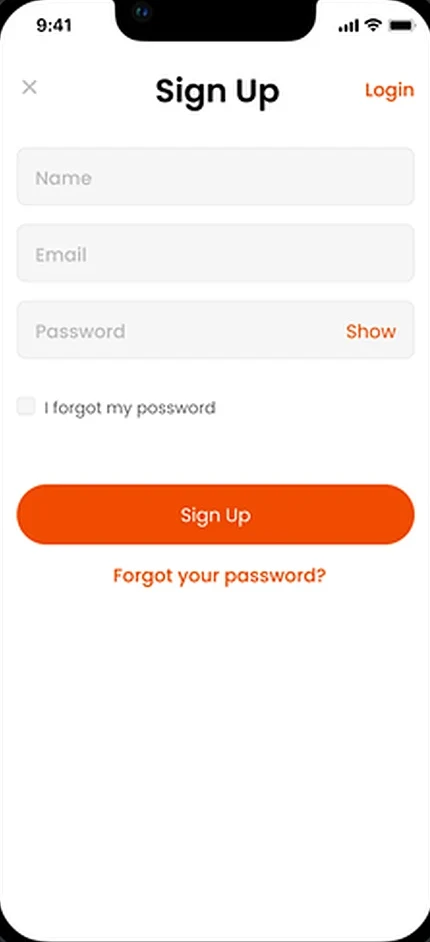
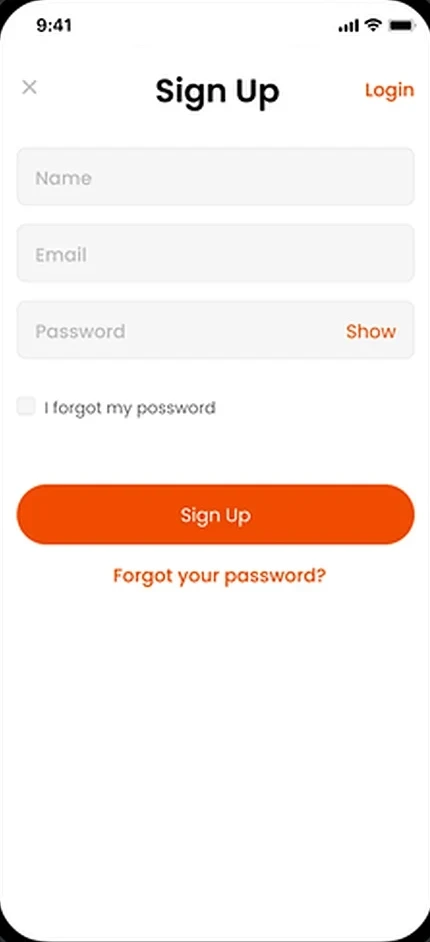
GO CHEFS: iPhone 15 çerçevesi ve Dynamic Island, telefon büyütüldü
Claude-Session: https://claude.ai/code/session_01Ntbc96ped4ebUQV9A9yqYk

Changed region(s): [[0.2419, 0.0, 0.7558, 0.0616]]

diff --git a/index.html b/index.html
@@ -580,9 +580,10 @@ html, body, .band, header.top, .kc { transition: background-color .5s ease, colo
 
 /* GO CHEFS prototip */
 figure.gp { background: #f1ece6; display: grid; grid-template-columns: auto minmax(0, 280px); gap: clamp(24px, 6vw, 110px); align-items: center; justify-content: center; padding: clamp(28px, 4vw, 56px) 16px; aspect-ratio: auto; }
-.gp-phone { height: min(86vh, 900px); width: auto; aspect-ratio: 412 / 866; padding: 11px; background: #111; border-radius: 56px; box-shadow: 0 0 0 2px #3a3a3a inset, 0 30px 60px rgba(20,14,12,.28); position: relative; }
-.gp-screen { width: 100%; height: 100%; border-radius: 46px; overflow: hidden; position: relative; background: #fff; touch-action: pan-y; user-select: none; -webkit-user-select: none; outline: none; }
+.gp-phone { height: min(92vh, 980px); width: auto; aspect-ratio: 716 / 1476; padding: 2.4%; background: #0d0d0f; border-radius: 15% / 7.3%; box-shadow: 0 0 0 2px #4a4a4f, 0 0 0 4px #1c1c1f, 0 30px 60px rgba(20,14,12,.28); position: relative; }
+.gp-screen { width: 100%; height: 100%; border-radius: 12.5% / 5.8%; overflow: hidden; position: relative; background: #fff; touch-action: pan-y; user-select: none; -webkit-user-select: none; outline: none; }
 .gp-screen:focus-visible { box-shadow: 0 0 0 3px #e46896; }
+.gp-screen::before { content: ""; position: absolute; z-index: 2; top: 1.35%; left: 50%; width: 32%; height: 4.4%; transform: translateX(-50%); background: #000; border-radius: 999px; pointer-events: none; }
 .gp-track { display: flex; height: 100%; transition: transform .42s cubic-bezier(.2,.8,.2,1); will-change: transform; }
 .gp-track.drag { transition: none; }
 .gp-track img { flex: 0 0 100%; width: 100%; height: 100%; object-fit: cover; object-position: top; pointer-events: none; }
@@ -596,7 +597,7 @@ figure.gp { background: #f1ece6; display: grid; grid-template-columns: auto minm
 .gp-btns button:hover { background: #111; color: #fff; }
 .gp-btns button:disabled { opacity: .3; pointer-events: none; }
 .gp-hint { font-size: 13px; color: #8a817a; }
-@media (max-width: 640px) { figure.gp { grid-template-columns: 1fr; justify-items: center; text-align: center; } .gp-btns { justify-content: center; } .gp-phone { height: auto; width: min(340px, 82vw); } }
+@media (max-width: 640px) { figure.gp { grid-template-columns: 1fr; justify-items: center; text-align: center; } .gp-btns { justify-content: center; } .gp-phone { height: auto; width: min(360px, 86vw); } }
 .kc-own { font-style: normal; font-size: .55em; font-weight: 500; letter-spacing: .02em; text-transform: lowercase; color: #e46896; margin-left: .6em; vertical-align: middle; white-space: nowrap; }
 
 /* beyaz zeminli görseller: ortak açık zemin, eşit iç boşluk */
